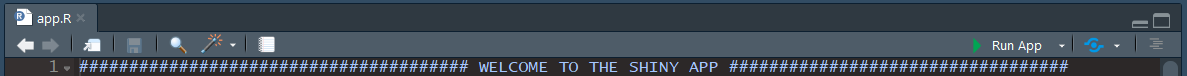
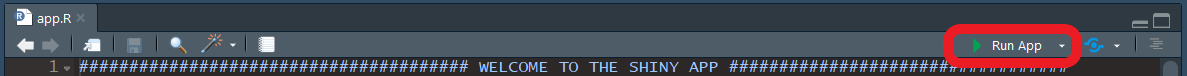
Update the website

Changed region(s): [[0.7793, 0.3158, 0.9351, 0.8947]]

diff --git a/docs/guide.md b/docs/guide.md
@@ -3,11 +3,8 @@
 * [Guide](./guide.md)
 * [About](./about.md)
 
-## CALIPER-Dataset
+---
 
-The [CALIPER](https://caliper.research.sickkids.ca/#/)-Dataset with age-dependent reference intervals has been preloaded into this Shiny App. For this purpose, the data was brought into the appropriate shape for the analysis from the [Supplemental Table](https://academic.oup.com/clinchem/article/58/5/854/5620695#supplementary-data) from the publication: *Age-Specific and Sex-Specific Pediatric Reference Intervals for 40 Biochemical Markers*. 
-
-## Guide
 ### Load new data 
 
 For new data use the [CALIPER-Dataset](https://github.com/SandraKla/Zlog_AdRI/blob/master/data/CALIPER.csv) as template with the columns:
@@ -23,35 +20,45 @@ For new data use the [CALIPER-Dataset](https://github.com/SandraKla/Zlog_AdRI/bl
 
 The data must be in CSV-format (sep = "," and dec = ".").
 
-<img src="data_format.png" align="center"/>
-
 ### Settings
 
-<p float="left">
-  <img src="setting.png" align="center" style="width:300px;"/>
-</p>
+<img src="setting.png" align="center" style="width:300px;"/>
 
-1.	Upload the CSV File with own reference intervals 
-2.	Replacement values: If the lower reference limit is zero, it will be set to 0.001 and the upper reference limit to 100 or by own given reference limits.
-3.	Select the sex
-4.	Select the lab parameter
-5.	Select the logarithmic scale for the x-axis
-6.	Select the maximum zlog value for quick determination of very high zlog values
+1)	Upload the CSV File with own reference intervals 
+2)	Replacement values: If the lower reference limit is zero, it will be set to 0.001 and the upper reference limit to 100 or by own given reference limits.
 
-<p float="left">
-  <img src="shiny_high_zlog.png" align="center" style="width:300px;"/>
-</p>
+<img src="shiny_replace.png" align="center" style="width:300px;"/>
 
-7.	Download the data with the zlog values
+3)	Select the sex
+4)	Select the lab parameter
+5)	Select if the x-axis should be logarithmic
+6)	Select the maximum zlog value for quick determination of very high zlog values
+
+<img src="shiny_high_zlog.png" align="center" style="width:300px;"/>
+
+7)	Download the data with the zlog values (only when opened in the browser)
+
+<img src="shiny_browser.png" align="center" style="width:300px;"/>
 
 ### Table with zlog values
 
-With the help of the table, find high zlog values and the appropriate laboratory parameters. These can be visualized in step 3. The table shows the zlog values. Zlog values under -1.96 in blue and above 1.96 in orange/red. The zlog value should be optimally between 1.96 and -1.96 in white.
+The table shows the zlog values. Zlog values under -1.96 are in blue and above 1.96 in orange/red. The zlog value should be optimally between 1.96 and -1.96 in white.
 
 <img src="table.png" align="center"/>
 
+The table shows following informations:
+
+<img src="shiny_table.png" align="center"/>
+
+- Prev.lower zlog = zlog value to previous lower limit 
+- Prev.upper zlog = zlog value to previous upper limit
+- Next.lower zlog = zlog value to next lower limit
+- Next.upper zlog = zlog value to next upper limit
+- Max zlog = maximum zlog value of this entry
+
+
 ### Plot with zlog values 
 
-This Shiny App computes for each lab parameter and each age group the zlog values of the preceding and the subsequent age group. This shows the left plot. The zlog value should be optimally in the middle of the green lines between 1.96 and -1.96. Zlog values above 4 or -4 should be checked and minimized by adding an additional age group with new calculated reference intervals. The right plot shows the current used reference intervals. The upper reference limit is in red and the lower limit in blue. 
+This Shiny App computes for each lab parameter and each age group the zlog values of the preceding and the subsequent age group. The first plot shows the currently used reference intervals. The upper reference limit is in red and the lower limit in blue. The second plot shows for the selected lab parameter and each age group the zlog values of the preceding and the subsequent age group (Legend: zlog to the preceding age group (square), zlog to the subsequent age group (circle)). The zlog values should be optimally in the middle of the green lines between 1.96 and -1.96.
 
 <img src="shiny.png" align="center"/>

diff --git a/docs/install.md b/docs/install.md
@@ -3,6 +3,8 @@
 * [Guide](./guide.md)
 * [About](./about.md)
 
+---
+
 ## Installation 
 
 **Method 1:**
@@ -19,6 +21,13 @@ else{
 And then start the app with the following code:
 ```bash
 runApp("app.R")
+
+In RStudio with installed [shiny](https://cran.r-project.org/web/packages/shiny/index.html) use the Run App-Button:
+
+<p float="left">
+  <img src="shiny_button.png" align="center" style="width:300px;"/>
+</p>
+
 ```
 **Method 2:**
 Use the function ```runGitHub()``` from the package [shiny](https://cran.r-project.org/web/packages/shiny/index.html):
@@ -28,4 +37,8 @@ library(shiny)
 runGitHub("Zlog_AdRI", "SandraKla")
 ```
 
-The package *DT* is downloaded or imported when starting this app. For more information about the required packages, see [About](./about.md).
+The package [DT](https://cran.r-project.org/web/packages/DT/index.html) is downloaded or imported when starting this app. For more information about the required packages, see [About](./about.md).
+
+## CALIPER-Dataset
+
+The [CALIPER](https://caliper.research.sickkids.ca/#/)-Dataset with age-dependent reference intervals has been preloaded into this Shiny App. For this purpose, the data was brought into the appropriate shape for the analysis from the [Supplemental Table](https://academic.oup.com/clinchem/article/58/5/854/5620695#supplementary-data) from the publication: *Age-Specific and Sex-Specific Pediatric Reference Intervals for 40 Biochemical Markers*. 

diff --git a/docs/index.md b/docs/index.md
@@ -3,6 +3,7 @@
 * [Guide](./guide.md)
 * [About](./about.md)
 
+---
 
 This Shiny App computes the zlog values of the preceding and the subsequent reference interval for different analytes for each age group. Many medical reference intervals are not age-dependent and have large jumps between the individual age groups. This should be prevented by considering the zlog value. The lower reference limits (LL) and upper reference limits (UL) can transform any result x into a zlog value using the following equation: 
 
@@ -10,6 +11,6 @@ This Shiny App computes the zlog values of the preceding and the subsequent refe
 
 If the zlog value deviates significantly from -1.96 to 1.96, the reference intervals and the age groups should possibly be renewed to obtain age-dependent reference intervals!
 
-*Link to the publication: A Tool for Plausibility Checks of Reference Interval Limits*
-
 <img src="shiny.png" align="center"/>
+
+*Link to the publication: A Tool for Plausibility Checks of Reference Interval Limits*

diff --git a/docs/about.md b/docs/about.md
@@ -3,6 +3,8 @@
 * [Guide](./guide.md)
 * [About](./about.md)
 
+---
+
 ## Versions 
 
 * [R](https://www.r-project.org): ≥ 3.6.1 
